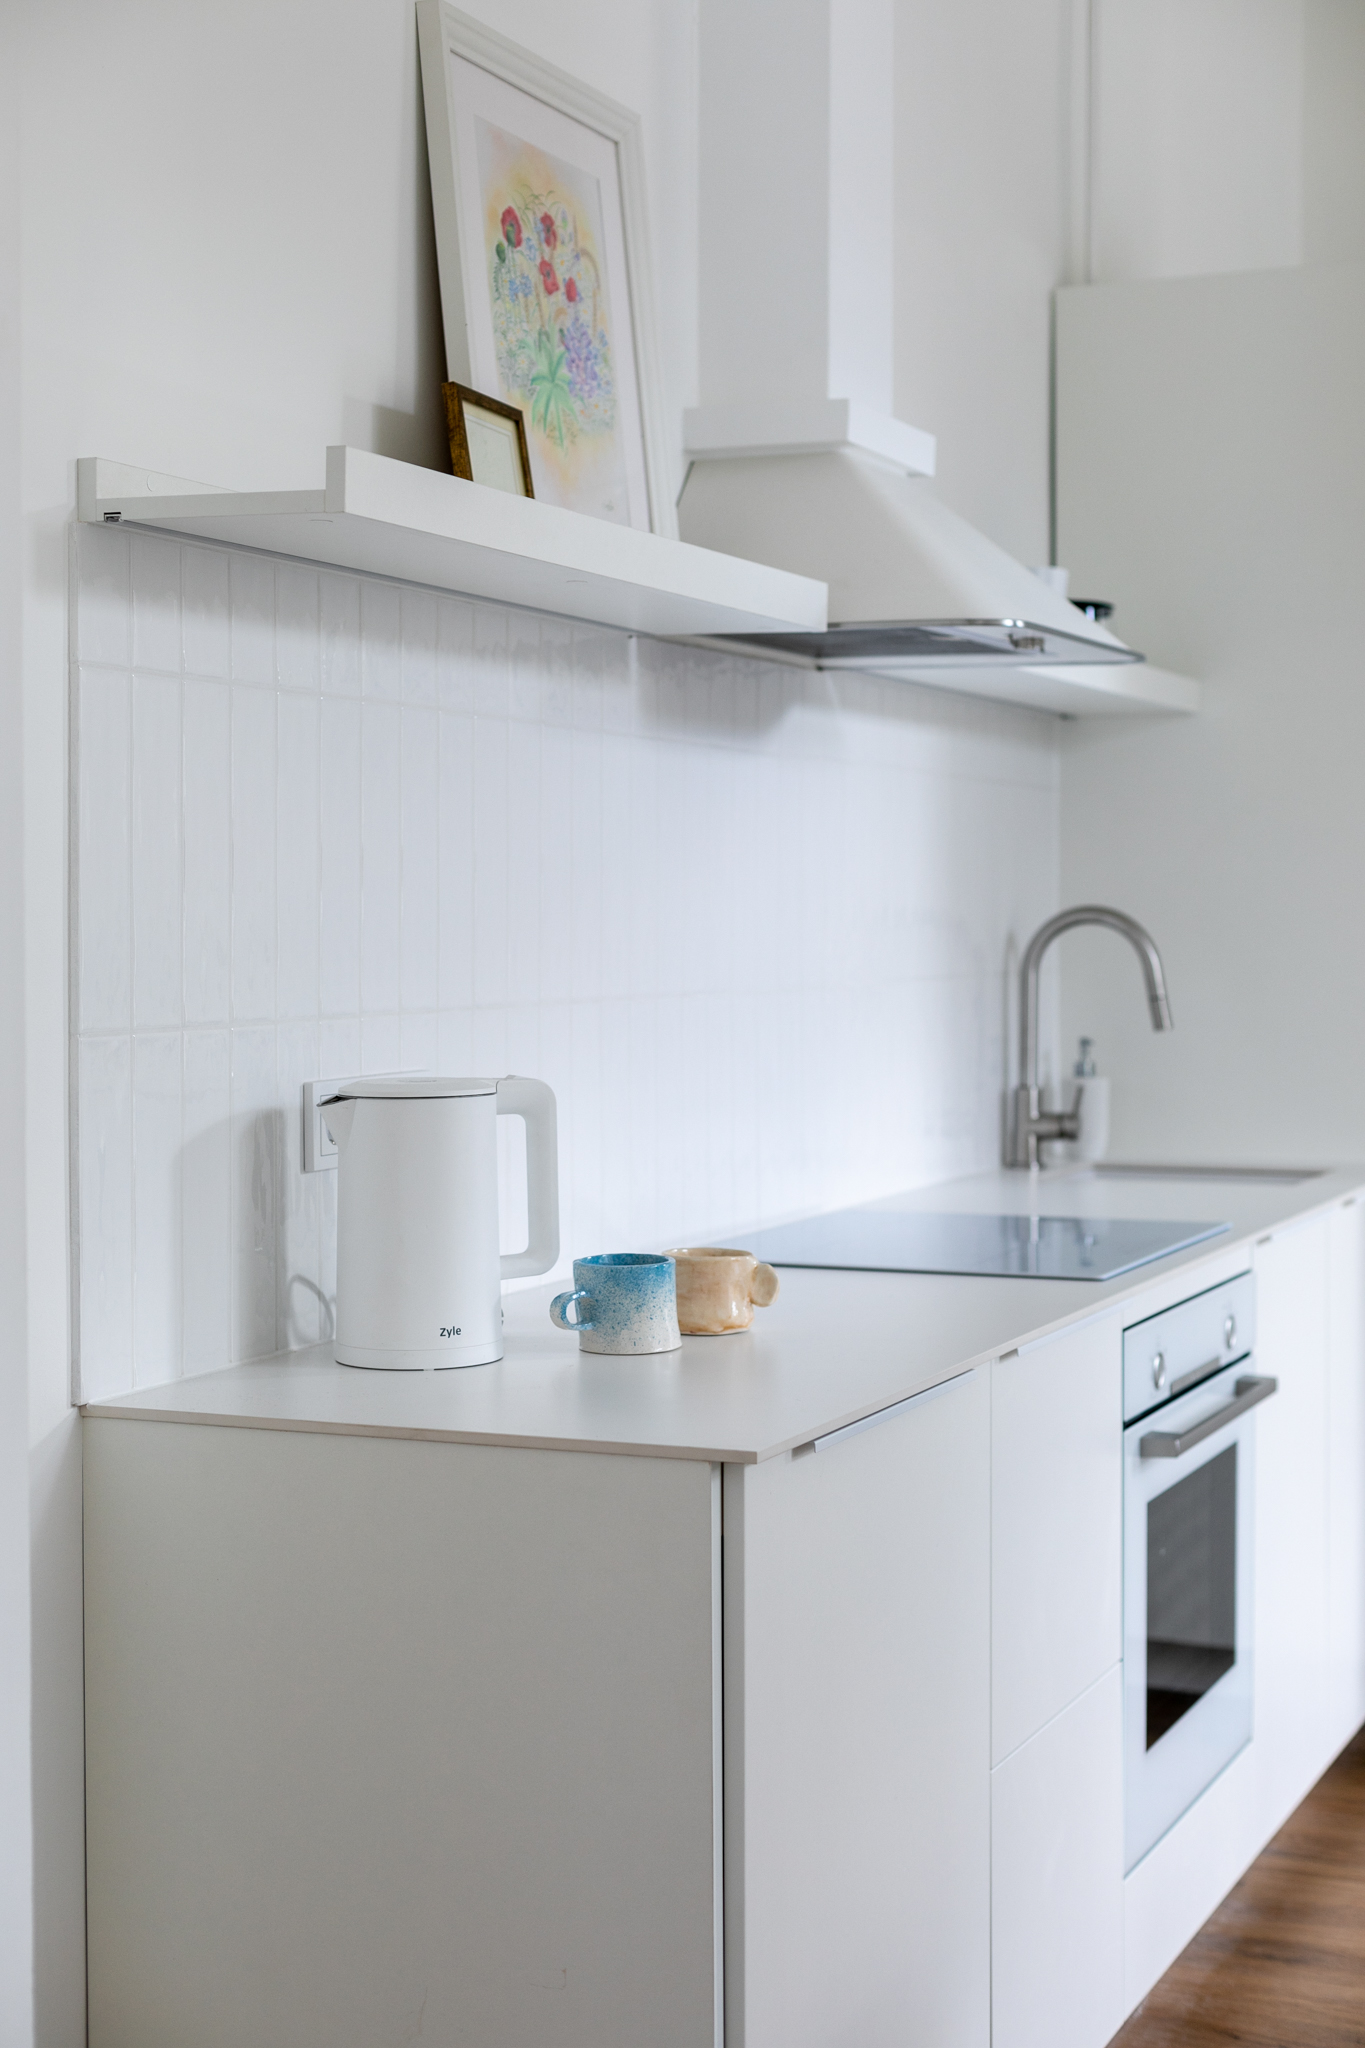
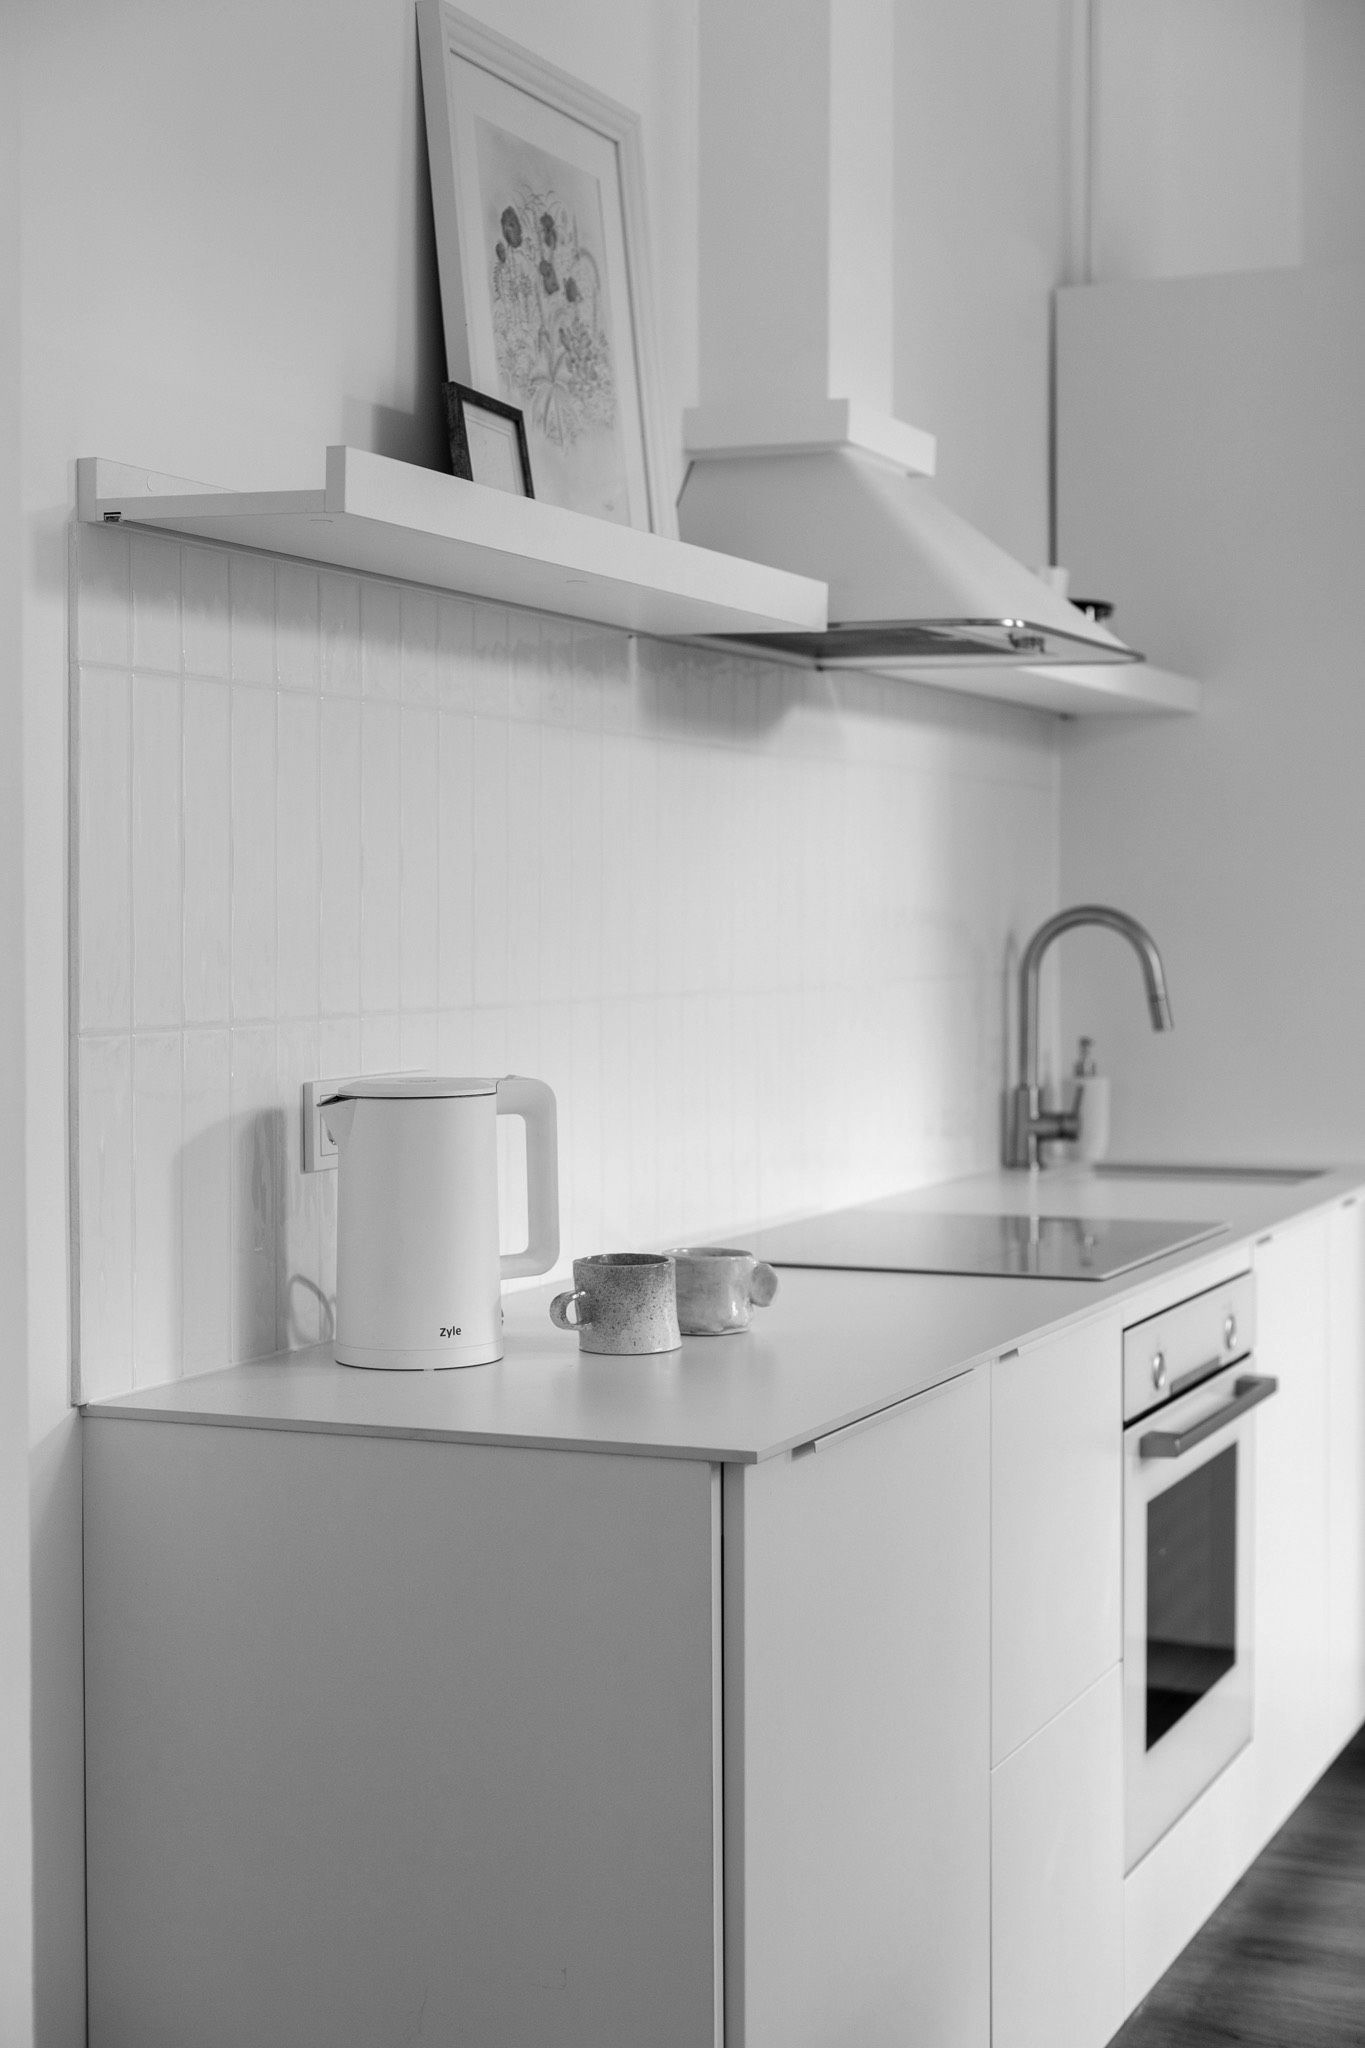
Fix project 1 image order and B&W conversion
- IMG_5861 now first image
- IMG_5833 converted to B&W and moved to last position
- Other images remain in color

diff --git a/index.html b/index.html
@@ -1067,7 +1067,7 @@
         const projects = [
             {
                 folder: '1',
-                images: ['IMG_5833.jpeg', 'IMG_5854.jpeg', 'IMG_5858.jpeg', 'IMG_5871.jpeg', 'IMG_5897.jpeg', 'IMG_5907.jpeg'],
+                images: ['IMG_5861.jpeg', 'IMG_5854.jpeg', 'IMG_5858.jpeg', 'IMG_5871.jpeg', 'IMG_5897.jpeg', 'IMG_5907.jpeg', 'IMG_5833.jpeg'],
                 EN: {
                     title: 'Residential Project',
                     location: 'Vilnius, Lithuania',
